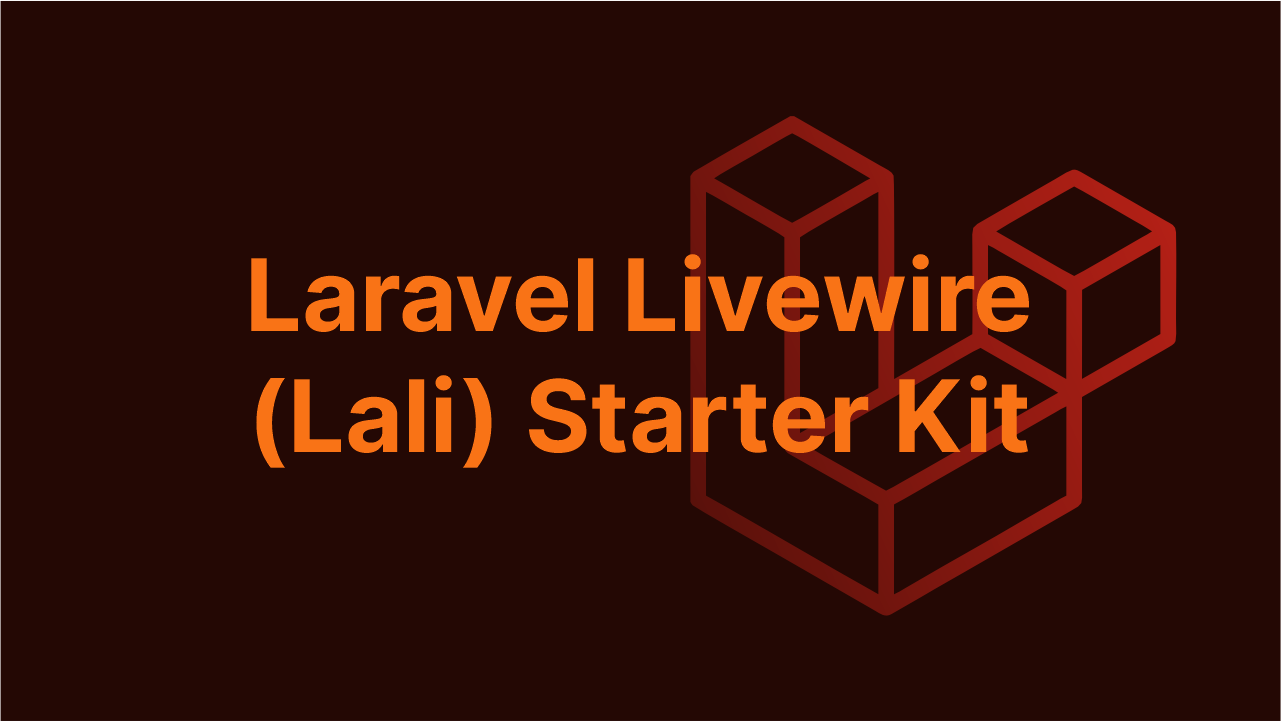
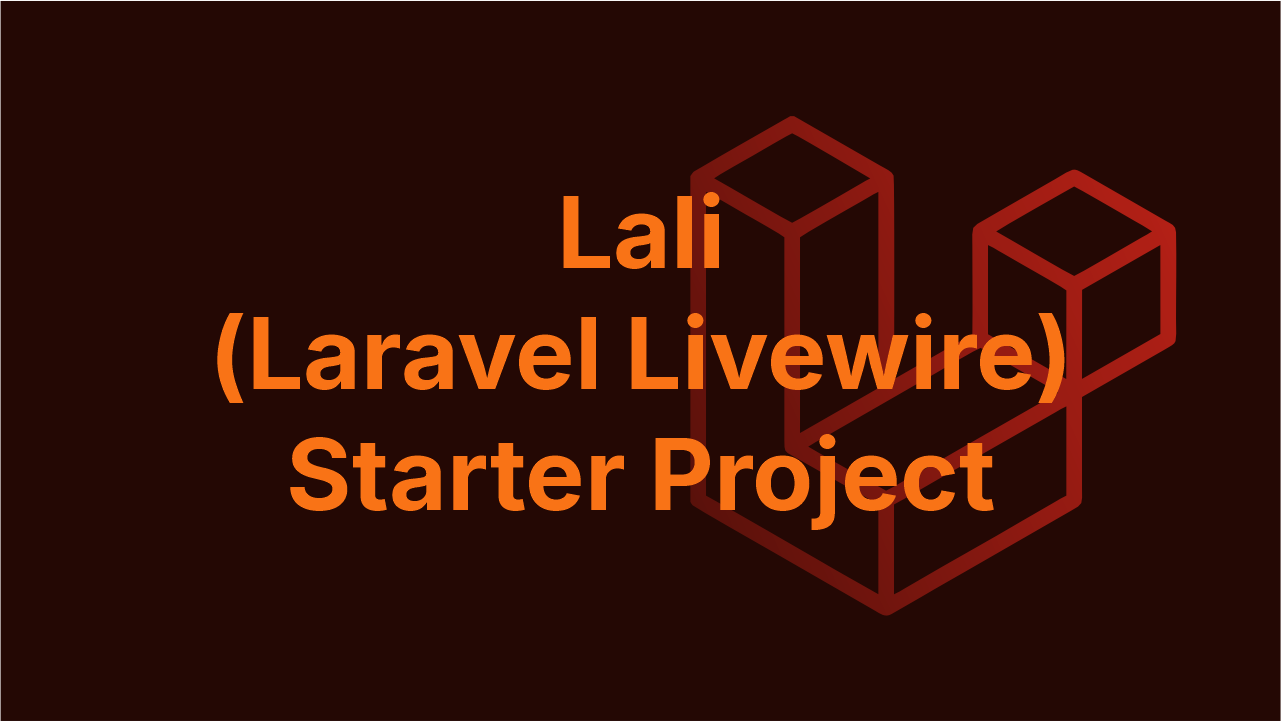
Update project name and description

Changed region(s): [[0.1561, 0.2441, 0.8431, 0.7323]]

diff --git a/content/post/introducing-lali.md b/content/post/introducing-lali.md
@@ -1,6 +1,6 @@
 ---
-title: Introducing Laravel Livewire (Lali) Starter Kit
-description: LaLi (Laravel Livewire) Starter Kit is a powerful foundation for building web applications with the TALL stack.
+title: Introducing Lali (Laravel Livewire) Starter Project
+description: The skeleton application for the Laravel starter project with TALL Stack.
 dateFormatted: October 25th, 2023
 ---
 
@@ -15,9 +15,7 @@ dateFormatted: October 25th, 2023
 - [Features](#features)
 - [Installation](#installation)
 
-## Introduction
-
-LaLi (Laravel Livewire) Starter Kit is a powerful foundation for building web applications with the TALL stack.
+Lali - Laravel Livewire Starter Project is The skeleton application for the Laravel starter project with TALL Stack.
 
 - [TailwindCSS](https://tailwindcss.com/)
 - [AlpineJS](https://alpinejs.dev/)
@@ -28,7 +26,7 @@ Build with Livewire full page component and SPA (Single Page Application) with w
 
 ## System Requirements
 
-- PHP 8.1
+- PHP 8.2
 - Composer
 - NodeJS & NPM
 - MySQL
@@ -66,7 +64,6 @@ LaLi comes packed with essential features and a well-structured codebase to get 
 - Main Layout
   - [x] Home
   - [x] Example
-  - [x] About
 - App Layout
   - [x] Dashboard
   - [x] Profile
@@ -79,7 +76,13 @@ LaLi comes packed with essential features and a well-structured codebase to get 
   - [x] Example
 - Admin Layout
   - [x] Dashboard
-  - [x] Users
+    - [x] Total user
+    - [x] Verified email user
+    - [x] Unverified email user
+    - [x] Registered user last month
+    - [x] Latest Created User
+    - [x] Latest Updated User
+  - [x] User
     - [x] Create
     - [x] Index
       - [x] Delete
@@ -87,8 +90,20 @@ LaLi comes packed with essential features and a well-structured codebase to get 
       - [x] Sort By
       - [x] Sort Direction
       - [x] Per Page
-      - [ ] Filter (Not implemented yet, only commented html code)
-      - [ ] Bulk Delete (Pending Feature)
+      - Select - Pending Feature
+        - [ ] Select
+        - [ ] Deselect
+        - [ ] Select All
+        - [ ] Deselect All
+      - Filter - Pending Feature
+        - [ ] Filter by Role (Only commented html code)
+      - Bulk Actions - Pending Feature
+        - [ ] Delete Selected (Only commented html code)
+        - [ ] Verify Selected (Only commented html code)
+        - [ ] Unverify Selected (Only commented html code)
+      - Pagination
+        - [x] Custom Pagination
+        - [x] Custom Simple Pagination
     - [x] Show
     - [x] Edit
   - [x] Example
@@ -102,7 +117,7 @@ LaLi comes packed with essential features and a well-structured codebase to get 
   - [x] 500
   - [x] 503
 - Tested with Pest
-  - [x] Feature Test (189 assertions)
+  - [x] Feature Test (193 assertions)
 - Livewire
   - SPA (Single Page Application) with wire:navigate
   - Full Page Livewire Component
@@ -121,7 +136,7 @@ LaLi comes packed with essential features and a well-structured codebase to get 
 
 ## Installation
 
-### Via [Composer](https://packagist.org/packages/arifbudimanar/lali)
+### Via Composer
 
 1. Create a new project
    ```
@@ -136,7 +151,7 @@ LaLi comes packed with essential features and a well-structured codebase to get 
    php artisan serve
    ```
 
-### Via [Github](https://github.com/arifbudimanar/lali) Clone
+### Via Git Clone
 
 1. Clone this repository
    ```
@@ -162,10 +177,14 @@ LaLi comes packed with essential features and a well-structured codebase to get 
    ```
    php artisan migrate
    php artisan db:seed
-   php artisan db:seed UserSeeder
+   php artisan db:seed Usereeder
    ```
 7. Run the server (Optional)
    ```
    php artisan serve
    ```
 8. Open the browser and go to http://localhost:8000 or http://lali.test
+
+## License
+
+LaLi is open-source software licensed under the [MIT License](https://github.com/arifbudimanar/lali/blob/main/LICENSE). Feel free to use it in your projects, and we appreciate any contributions or feedback you might have.
